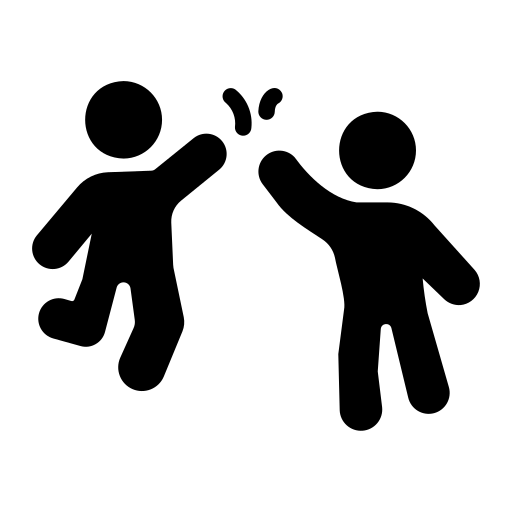
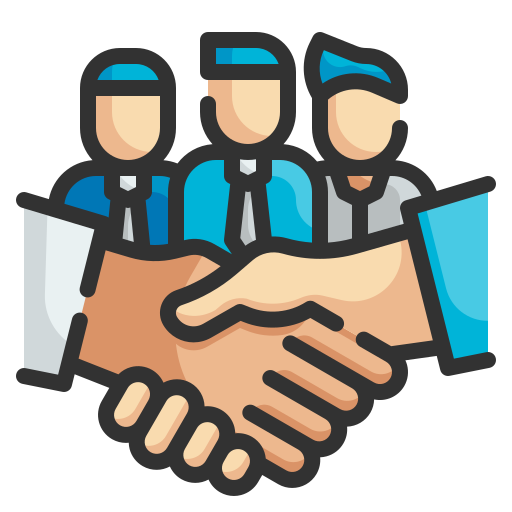
date is for today in allocagtion , Thanks To Allah

diff --git a/cw_equity_management/models/equity_allocation.py b/cw_equity_management/models/equity_allocation.py
@@ -30,7 +30,7 @@ class EquityAllocation(models.Model):
     allocation_date = fields.Date(
         string='Allocation Date',
         required=True,
-        default=fields.Date.context_today,
+        default=lambda self: fields.Date.context_today(self),
         help='Date of the allocation'
     )
     
@@ -47,7 +47,7 @@ class EquityAllocation(models.Model):
     period_end = fields.Date(
         string='Period End',
         required=True,
-        default=lambda self: date(date.today().year, 12, 31),
+        default=lambda self: fields.Date.context_today(self),
         help='End date of the period for profit/loss calculation'
     )
     
